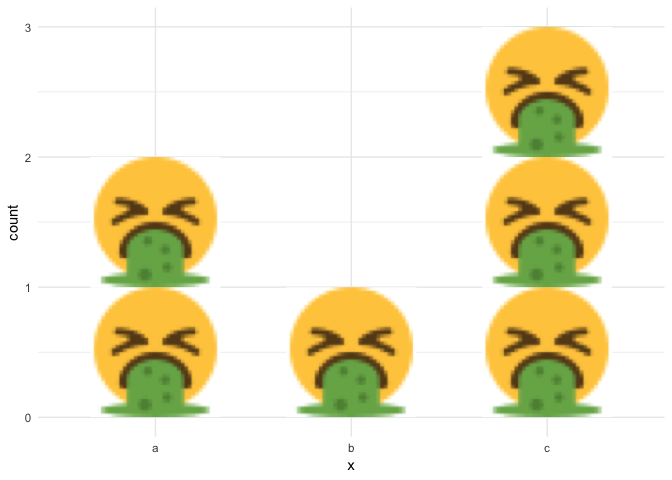
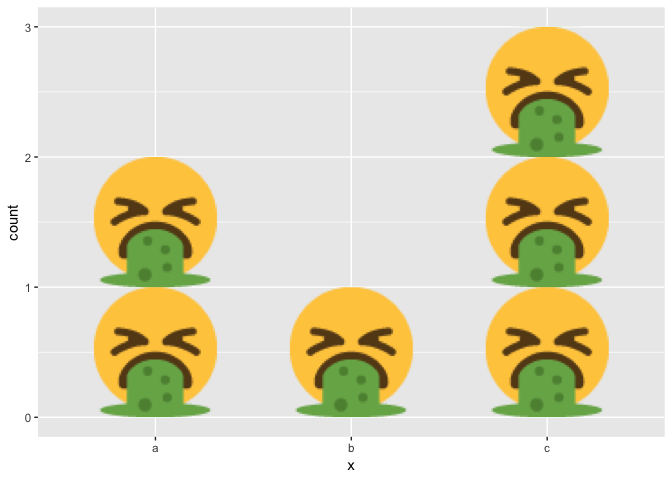
Regenerate images

diff --git a/README.md b/README.md
@@ -22,8 +22,7 @@ set.seed(123)
 dat <- data.frame(x = sample(letters[1:3], 6, replace = TRUE))
 
 ggplot(dat, aes(x)) +
-  geom_barf() +
-  theme_minimal()
+  geom_barf()
 ```
 
 <img src="man/figures/README-example-1.png" width="100%" />
